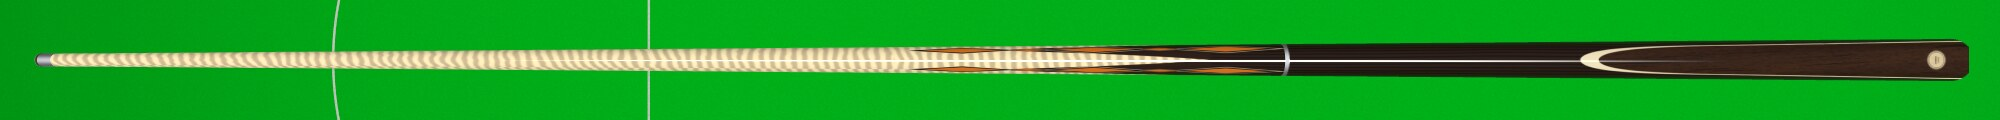
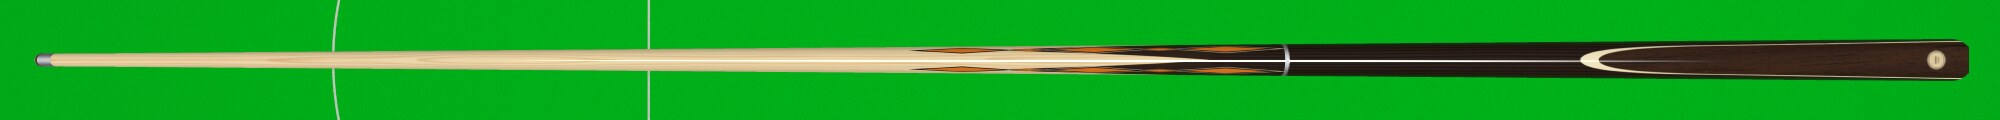
Guide: the cues re-shot after the wood work -- plain maple shafts with their growth rings, the laminated cues' real ash, MOONSTONE without its black horns, the new birdseye; the shaft page is ash, maple or carbon; GASLIGHT is CLASSIC

Changed region(s): [[0.0, 0.4, 0.589, 0.6], [0.496, 0.6, 0.527, 0.625], [0.496, 0.375, 0.527, 0.4]]

diff --git a/docs/cuevr-guide.html b/docs/cuevr-guide.html
@@ -3226,7 +3226,7 @@
   online match your opponent sees the cue in your hands exactly as you built it.</p>
 
   <div class="rack">
-    <div class="row"><div class="nm">GASLIGHT</div><img src="img/cuevr/cue0.jpg" alt="Gaslight cue"></div>
+    <div class="row"><div class="nm">CLASSIC</div><img src="img/cuevr/cue0.jpg" alt="Classic cue"></div>
     <div class="row"><div class="nm">TWIN FLAME</div><img src="img/cuevr/cue1.jpg" alt="Twin Flame cue"></div>
     <div class="row"><div class="nm">EDWARDIAN</div><img src="img/cuevr/cue2.jpg" alt="Edwardian cue"></div>
     <div class="row"><div class="nm">MAYFAIR</div><img src="img/cuevr/cue3.jpg" alt="Mayfair cue"></div>
@@ -3256,7 +3256,7 @@
   are spliced into the butt with their veneers, panels are let in round it, and a plate or insert
   sits in the flat at the end.</p>
   <div class="closeups">
-    <figure><img src="img/cuevr/cue0-butt.jpg" alt="The butt of the Gaslight cue"><figcaption>GASLIGHT</figcaption></figure>
+    <figure><img src="img/cuevr/cue0-butt.jpg" alt="The butt of the Classic cue"><figcaption>CLASSIC</figcaption></figure>
     <figure><img src="img/cuevr/cue1-butt.jpg" alt="The butt of the Twin Flame cue"><figcaption>TWIN FLAME</figcaption></figure>
     <figure><img src="img/cuevr/cue2-butt.jpg" alt="The butt of the Edwardian cue"><figcaption>EDWARDIAN</figcaption></figure>
     <figure><img src="img/cuevr/cue3-butt.jpg" alt="The butt of the Mayfair cue"><figcaption>MAYFAIR</figcaption></figure>
@@ -3296,9 +3296,9 @@
     <tr><th>Page</th><th>What it sets</th></tr>
     <tr><td><b>Cue</b></td><td>The name, and which cue you start from: any rack cue, or one of your
       own.</td></tr>
-    <tr><td><b>Shaft</b></td><td>The timber (ash, maple, birdseye, flame or carbon), its colour and
-      lightness, the ring spacing, contrast and arrows of the grain, whether the grain lines are dark
-      or brown, the ferrule (silver, brass, ivory, black or red-brown fibre), the tip, the varnish and
+    <tr><td><b>Shaft</b></td><td>The timber (ash, maple or carbon), its colour and lightness, the ring
+      spacing, contrast and arrows of the grain, whether an ash shaft's grain lines are dark or
+      brown, the ferrule (silver, brass, ivory, black or red-brown fibre), the tip, the varnish and
       the cue's length.</td></tr>
     <tr><td><b>Splice</b></td><td>How many points (none, 4, 6 or 8), by hand or by machine, how long
       they are, where the splice sits, how round the tips are and how long the veneers' crescents
